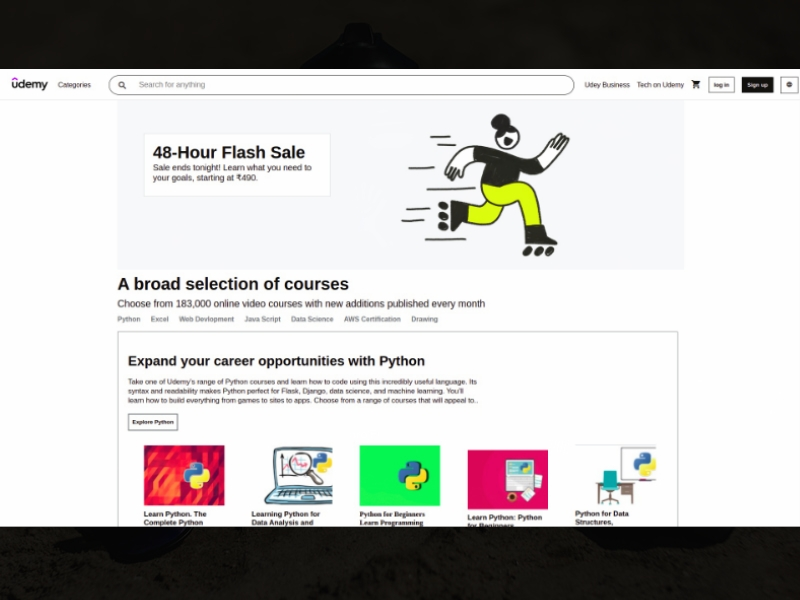
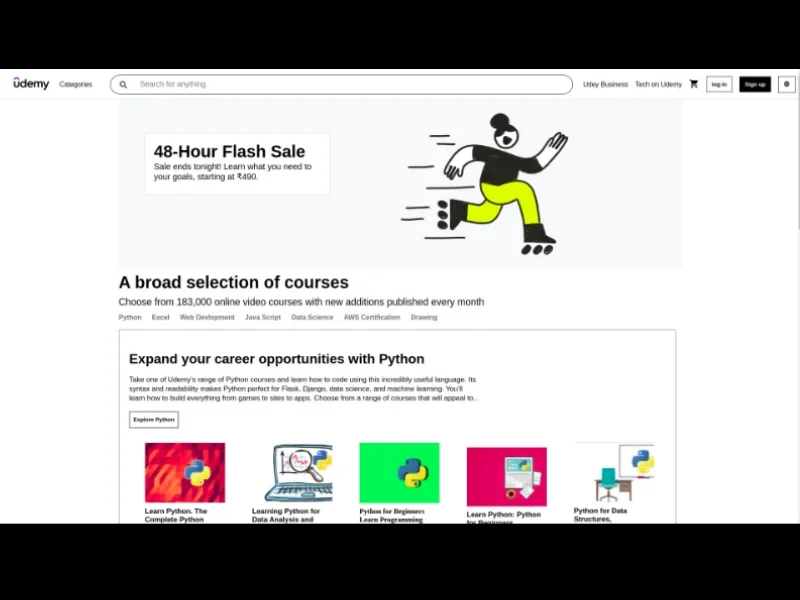
PortfolioImg

diff --git a/UdemyCloneProjectDetails.html b/UdemyCloneProjectDetails.html
@@ -47,10 +47,10 @@
                             <div class="swiper-wrapper align-items-center">
 
                                 <div class="swiper-slide">
-                                    <img src="assets/img/portfolio/UdemyHome.webp" alt="">
+                                    <img src="assets/img/portfolio/UdemyHome.webp" class="img-fluid" alt="">
                                 </div>
                                 <div class="swiper-slide">
-                                    <img src="assets/img/portfolio/UdemyFoot.webp" alt="">
+                                    <img src="assets/img/portfolio/UdemyFoot.webp" class="img-fluid" alt="">
                                 </div>
 
                             </div>

diff --git a/PrimeVideoCloneProjectDetails.html b/PrimeVideoCloneProjectDetails.html
@@ -47,10 +47,10 @@
               <div class="swiper-wrapper align-items-center">
 
                 <div class="swiper-slide">
-                  <img src="assets/img/portfolio/PrimeHome.webp" alt="">
+                  <img src="assets/img/portfolio/PrimeHome.webp" class="img-fluid" alt="">
                 </div>
                 <div class="swiper-slide">
-                  <img src="assets/img/portfolio/PrimeFoot.webp" alt="">
+                  <img src="assets/img/portfolio/PrimeFoot.webp" class="img-fluid" alt="">
                 </div>
 
               </div>

diff --git a/assets/css/style.css b/assets/css/style.css
@@ -753,6 +753,9 @@ section .container {
 .portfolio-details .swiper-pagination .swiper-pagination-bullet-active {
   background-color: #18d26e;
 }
+.swiper-slide{
+  
+}
 
 /*--------------------------------------------------------------
 # Contact
